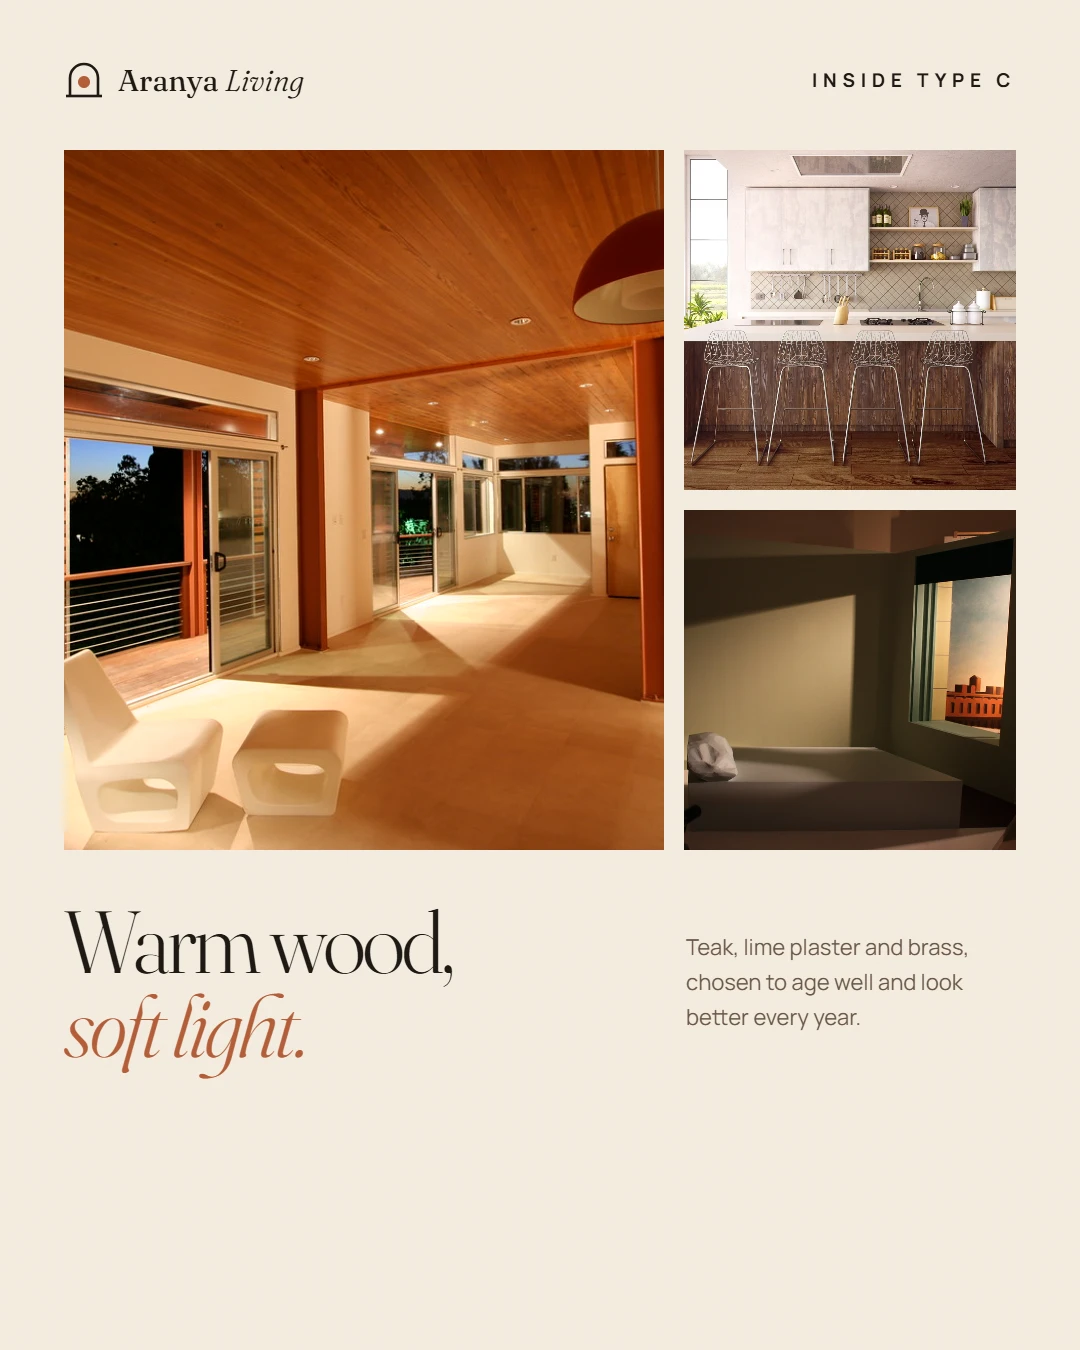
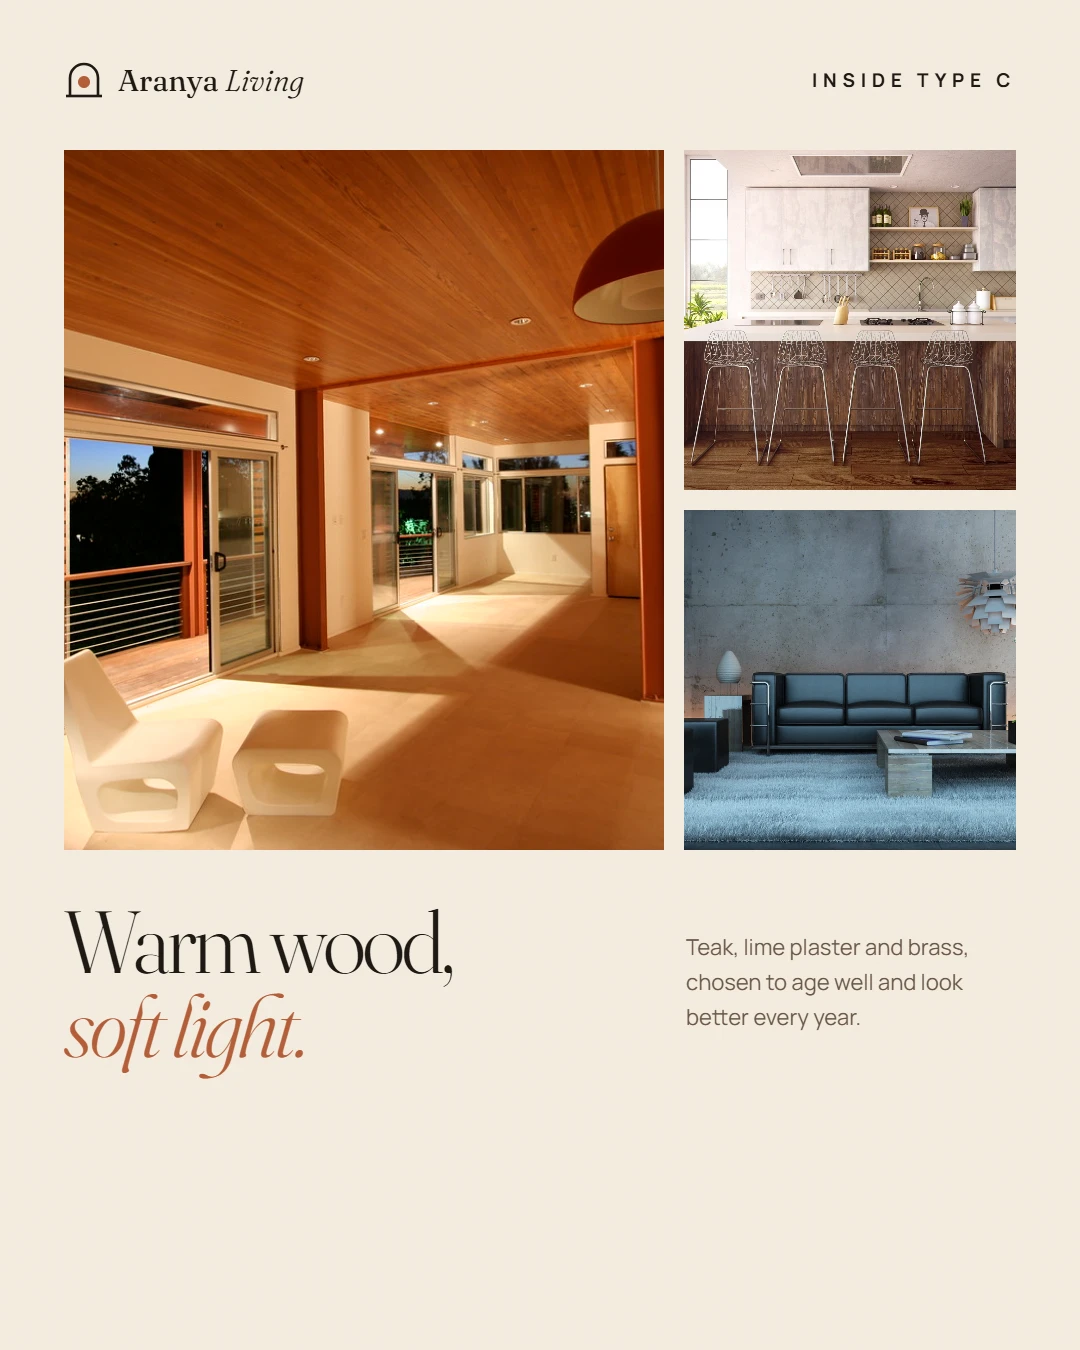
Swap a gallery photo out of Aranya post 08
One small photo in the "Warm wood, soft light" post showed an Edward
Hopper painting, which is still under copyright. It's replaced with a
public-domain living-room photo, and the photo credits are updated.

Changed region(s): [[0.6111, 0.3733, 0.9472, 0.6533]]

diff --git a/docs/photo-credits.md b/docs/photo-credits.md
@@ -10,7 +10,7 @@ The Graphic Design room's concept campaigns (Aranya Living, Kaelum Springs, Saan
 | Living Room | Jeremy Levine Design | CC BY 2.0 | https://www.flickr.com/photos/25186605@N04/3640110011 |
 | Living Room | Jeremy Levine Design | CC BY 2.0 | https://www.flickr.com/photos/25186605@N04/4329977835 |
 | two-story-home-lit-windows (Creative Commons) | vcmxnajg1 | CC BY 2.0 | https://www.flickr.com/photos/200871378@N03/53833977372 |
-| Edward Hopper - Milano, Palazzo Reale | br1dotcom | CC BY 2.0 | https://www.flickr.com/photos/21394564@N04/4008962387 |
+| Modern Luxury Living Room Interior / Loft Apartment Architecture | Foto Miki Digital | CC PDM 1.0 | https://www.flickr.com/photos/96511847@N04/9202816086 |
 | Free modern kitchen interior image | Unknown | CC CC0 1.0 | https://www.rawpixel.com/image/5906894/photo-image-public-domain-kitchen-interior |
 | Sustainable Kitchen | Jeremy Levine Design | CC BY 2.0 | https://www.flickr.com/photos/25186605@N04/3240119298 |
 | Red Box at Night | Jeremy Levine Design | CC BY 2.0 | https://www.flickr.com/photos/25186605@N04/3640920662 |
